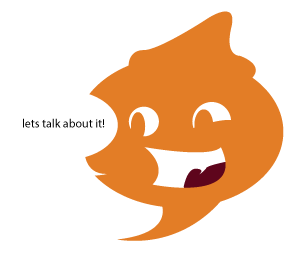
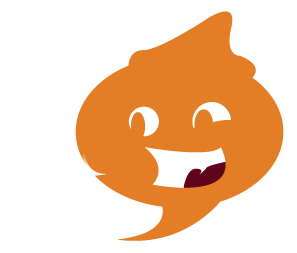
lagt till en js fil som random genererar meningar

Changed region(s): [[0.0606, 0.3597, 0.4242, 0.664]]

diff --git a/js/randomize.js b/js/randomize.js
@@ -1,0 +1,23 @@
+(function(count) {
+	var words = {
+		sentence1: ["Lets"],
+		sentence2: ["talk", "do","play","kill","programming"],
+		sentence3: ["science","programming","coffee","hipster","hipstertalk"]
+	};
+
+	var sentence = ["sentence1","sentence2","sentence3"];
+
+	var arrayRandom = function(myArray) {
+		return myArray[ Math.floor( Math.random() * myArray.length)];
+	};
+
+	var readysentence = [];
+
+	while(count--) {
+		readysentence.length = 0;
+		for (var ii = 0; ii < sentence.length; ++ii) {
+			readysentence.push(arrayRandom(words[sentence[ii]]));
+		};
+		document.writeln(readysentence.join(" "));
+	}
+})(1);

diff --git a/index.html b/index.html
@@ -5,7 +5,11 @@
 	<link rel="stylesheet" type="text/css" href="css/style.css">
 </head>
 <body>
-	<div class="logo"><img src="img/chatlogo.png" width="800px"></div>	
+	<div class="logo"><img src="img/chatlogo.png" width="400px"></div>
+	<div class="randomwords">
+		<script type="text/javascript" src="js/randomize.js"></script>
+	</div>
+	<div class="bubbleguy"><img src="img/bubbleguy.png" width="180px"></div>	
 	<div class="loginform">
 		<table>
 			<tr>

diff --git a/css/style.css b/css/style.css
@@ -4,3 +4,5 @@ body { background: #564534; }
 .loginform form { padding-top: 35px; padding-left: 50px; } 
 table { margin: 25% auto 0 auto; color: #fff; }
 
+.bubbleguy { margin-right: auto; margin-left: auto; width: 150px; }
+.randomize { marign-right: auto; margin-left: auto; color: #ff3d00; }
